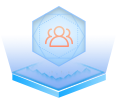
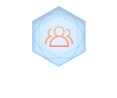
教学态势动画

diff --git a/src/components/comprehensive.vue b/src/components/comprehensive.vue
@@ -43,6 +43,21 @@
               </div>
               <div class="middle">
                 <img class="net-img" src="../assets/compre/net.png" alt />
+                <svg class="svg-box">
+                  <defs>
+                    <filter id="f1" x="-100%" y="-100%" width="400%" height="400%">
+                      <feGaussianBlur result="blurOut" in="offOut" stdDeviation="4" />
+                      <feBlend in="SourceGraphic" in2="blurOut" mode="multiply" />
+                    </filter>
+                  </defs>
+                  <polyline class="line ani1" points="76,43 20,43 4,29" filter="url(#f1)" />
+                  <polyline class="line ani2" points="77,43 77,54 64,65 20,65" filter="url(#f1)" />
+                  <polyline class="line ani3" points="81,45 81,72 56,102 4,102" filter="url(#f1)" />
+                  <polyline class="line ani4" points="86,45 86,102 85,102" filter="url(#f1)" />
+                  <polyline class="line ani3" points="91,45 91,72 116,103 166,103" filter="url(#f1)" />
+                  <polyline class="line ani2" points="95,43 95,54 108,65 150,65" filter="url(#f1)" />
+                  <polyline class="line ani1" points="96,43 152,43 168,29" filter="url(#f1)" />
+                </svg>
                 <div class="btn-net">
                   <span class="name">cucc联动</span>
                   <span class="value">
@@ -122,14 +137,13 @@
               <img class="car2" src="../assets/compre/car2.png" alt />
               <img class="car3" src="../assets/compre/car3.png" alt />
               <svg class="svg-box">
-                <!-- <defs>
-                  <filter id="f1" x="0" y="0" width="200%" height="200%">
-                  <feOffset result="offOut" in="SourceGraphic" dx="20" dy="20" />
-                  <feGaussianBlur result="blurOut" in="offOut" stdDeviation="10" />
-                  <feBlend in="SourceGraphic" in2="blurOut" mode="normal" />
-                </filter>
-                </defs> -->
-                <polyline  class="ani-line" points="160,4 203,29 203,77 160,101 118,77 118,29 160,4" />
+                <defs>
+                  <filter id="f1" x="-100%" y="-100%" width="400%" height="400%">
+                    <feGaussianBlur result="blurOut" in="offOut" stdDeviation="4" />
+                    <feBlend in="SourceGraphic" in2="blurOut" mode="multiply" />
+                  </filter>
+                </defs>
+                <polyline class="ani-line" points="160,4 203,29 203,77 160,101 118,77 118,29 160,4" filter="url(#f1)" />
               </svg>
             </div>
             <div class="detail">
@@ -805,8 +819,72 @@ export default {
       display: flex;
       flex-direction: column;
       align-items: center;
+      position: relative;
       .net-img {
         width: 172px;
+      }
+      .svg-box {
+        width: 100%;
+        height: 100%;
+        position: absolute;
+        left: 0;
+        top: 0;
+        .line {
+          fill: none;
+          stroke-width: 2;
+          stroke: #6ab0ff;
+          stroke-linejoin: round;
+          stroke-linecap: round;
+          stroke-dashoffset: 0;
+        }
+        .ani1{
+          stroke-dasharray: 2, 76;
+          animation: aniLineMove1 4s linear infinite;
+        }
+        .ani2{
+          stroke-dasharray: 2, 70;
+          animation: aniLineMove2 4s linear infinite;
+        }
+        .ani3{
+          stroke-dasharray: 2, 116;
+          animation: aniLineMove3 4s linear infinite;
+        }
+        .ani4{
+          stroke-dasharray: 2, 56;
+          animation: aniLineMove4 4s linear infinite;
+        }
+        @keyframes aniLineMove1 {
+          0% {
+            stroke-dashoffset: 0;
+          }
+          100% {
+            stroke-dashoffset: -78;
+          }
+        }
+        @keyframes aniLineMove2 {
+          0% {
+            stroke-dashoffset: 0;
+          }
+          100% {
+            stroke-dashoffset: -72;
+          }
+        }
+        @keyframes aniLineMove3 {
+          0% {
+            stroke-dashoffset: 0;
+          }
+          100% {
+            stroke-dashoffset: -118;
+          }
+        }
+        @keyframes aniLineMove4 {
+          0% {
+            stroke-dashoffset: 0;
+          }
+          100% {
+            stroke-dashoffset: -58;
+          }
+        }
       }
     }
     .right {
@@ -914,22 +992,24 @@ export default {
     .box-car {
       width: 100%;
     }
-    .car1,.car2,.car3 {
+    .car1,
+    .car2,
+    .car3 {
       position: absolute;
       width: 21px;
       height: 36px;
       top: calc(100%);
       z-index: 1;
     }
-    .car1{
+    .car1 {
       left: 22px;
       animation: carMove 5s infinite linear;
     }
-    .car2{
+    .car2 {
       left: calc(50% - 10.5px);
       animation: carMove 4s infinite linear;
     }
-    .car3{
+    .car3 {
       top: -36px;
       right: 22px;
       transform: rotate(180deg);
@@ -951,7 +1031,7 @@ export default {
         top: calc(100%);
       }
     }
-    .svg-box{
+    .svg-box {
       width: 100%;
       height: 100%;
       position: absolute;
@@ -960,7 +1040,7 @@ export default {
       .ani-line {
         fill: none;
         stroke-width: 2;
-        stroke: #6AB0FF;
+        stroke: #6ab0ff;
         stroke-linejoin: round;
         stroke-linecap: round;
         stroke-dasharray: 73, 27;

diff --git a/src/components/studystatues/index.vue b/src/components/studystatues/index.vue
@@ -111,7 +111,11 @@
         <sideItem title="当前行课统计" transitionType="right" delay="200" height="37.46%">
           <div slot="body" class="courseStati">
             <div class="item" v-for="(item,i) in courseList" :key="i">
-              <img :src="item.icon" alt />
+              <div class="imgbox">
+                <img class="icon" :src="item.icon" alt />
+                <img class="light" src="../../assets/study/bg-l.png" alt="">
+                <img src="../../assets/study/bg-b.png" alt="">
+              </div>
               <span class="value">
                 {{item.val}}
                 <i>({{item.unit}})</i>
@@ -934,10 +938,53 @@ export default {
     display: flex;
     flex-direction: column;
     align-items: center;
-    img {
+    .imgbox{
       width: 100px;
       height: 85px;
+      position: relative;
+      img {
+        width: 100%;
+        height: 100%;
+        position: absolute;
+        left: 0;
+        top: 0;
+      }
+      .icon{
+        animation: ani-icon 3s infinite linear;
+      }
+      .light{
+        animation: ani-light 3s infinite linear;
+      }
+      @keyframes ani-light {
+        0% {
+          opacity: 0.3;
+          transform: scale(0);
+          top: 30%;
+        }
+        50% {
+          opacity: 1;
+          transform: scale(1);
+          top: 0;
+        }
+        100% {
+          opacity: 0.3;
+          transform: scale(0);
+          top: 30%;
+        }
+      }
+      @keyframes ani-icon {
+        0% {
+          top: -5px;
+        }
+        50% {
+          top: 5px;
+        }
+        100% {
+          top: -5px;
+        }
+      }
     }
+    
     .value {
       margin-top: 5px;
       font-size: 16px;
@@ -1028,7 +1075,7 @@ export default {
   }
 }
 
-@-webkit-keyframes myMove {
+@keyframes myMove {
   /**关键帧名称**/
   0% {
     -webkit-transform: rotate(0deg);

diff --git a/src/components/fireSafety.vue b/src/components/fireSafety.vue
@@ -272,28 +272,28 @@
 				}, ],
 				monitorList: [{
 					id: '1',
-					src: 'http://clips.vorwaerts-gmbh.de/big_buck_bunny.mp4'
+					src: 'https://media.w3.org/2010/05/sintel/trailer.mp4'
 				}, {
 					id: '2',
-						src: 'http://clips.vorwaerts-gmbh.de/big_buck_bunny.mp4'
+						src: 'https://media.w3.org/2010/05/sintel/trailer.mp4'
 				}, {
 					id: '3',
-						src: 'http://clips.vorwaerts-gmbh.de/big_buck_bunny.mp4'
+						src: 'https://media.w3.org/2010/05/sintel/trailer.mp4'
 				}, {
 					id: '4',
-						src: 'http://clips.vorwaerts-gmbh.de/big_buck_bunny.mp4'
+						src: 'https://media.w3.org/2010/05/sintel/trailer.mp4'
 				},{
 					id: '5',
-					src: 'http://clips.vorwaerts-gmbh.de/big_buck_bunny.mp4'
+					src: 'https://media.w3.org/2010/05/sintel/trailer.mp4'
 				}, {
 					id: '6',
-					src: 'http://clips.vorwaerts-gmbh.de/big_buck_bunny.mp4'
+					src: 'https://media.w3.org/2010/05/sintel/trailer.mp4'
 				}, {
 					id: '7',
-					src: 'http://clips.vorwaerts-gmbh.de/big_buck_bunny.mp4'
+					src: 'https://media.w3.org/2010/05/sintel/trailer.mp4'
 				}, {
 					id: '8',
-					src: 'http://clips.vorwaerts-gmbh.de/big_buck_bunny.mp4'
+					src: 'https://media.w3.org/2010/05/sintel/trailer.mp4'
 				}, ],
 				monitorIndex: 1,
 				allPatrolOption: {},
